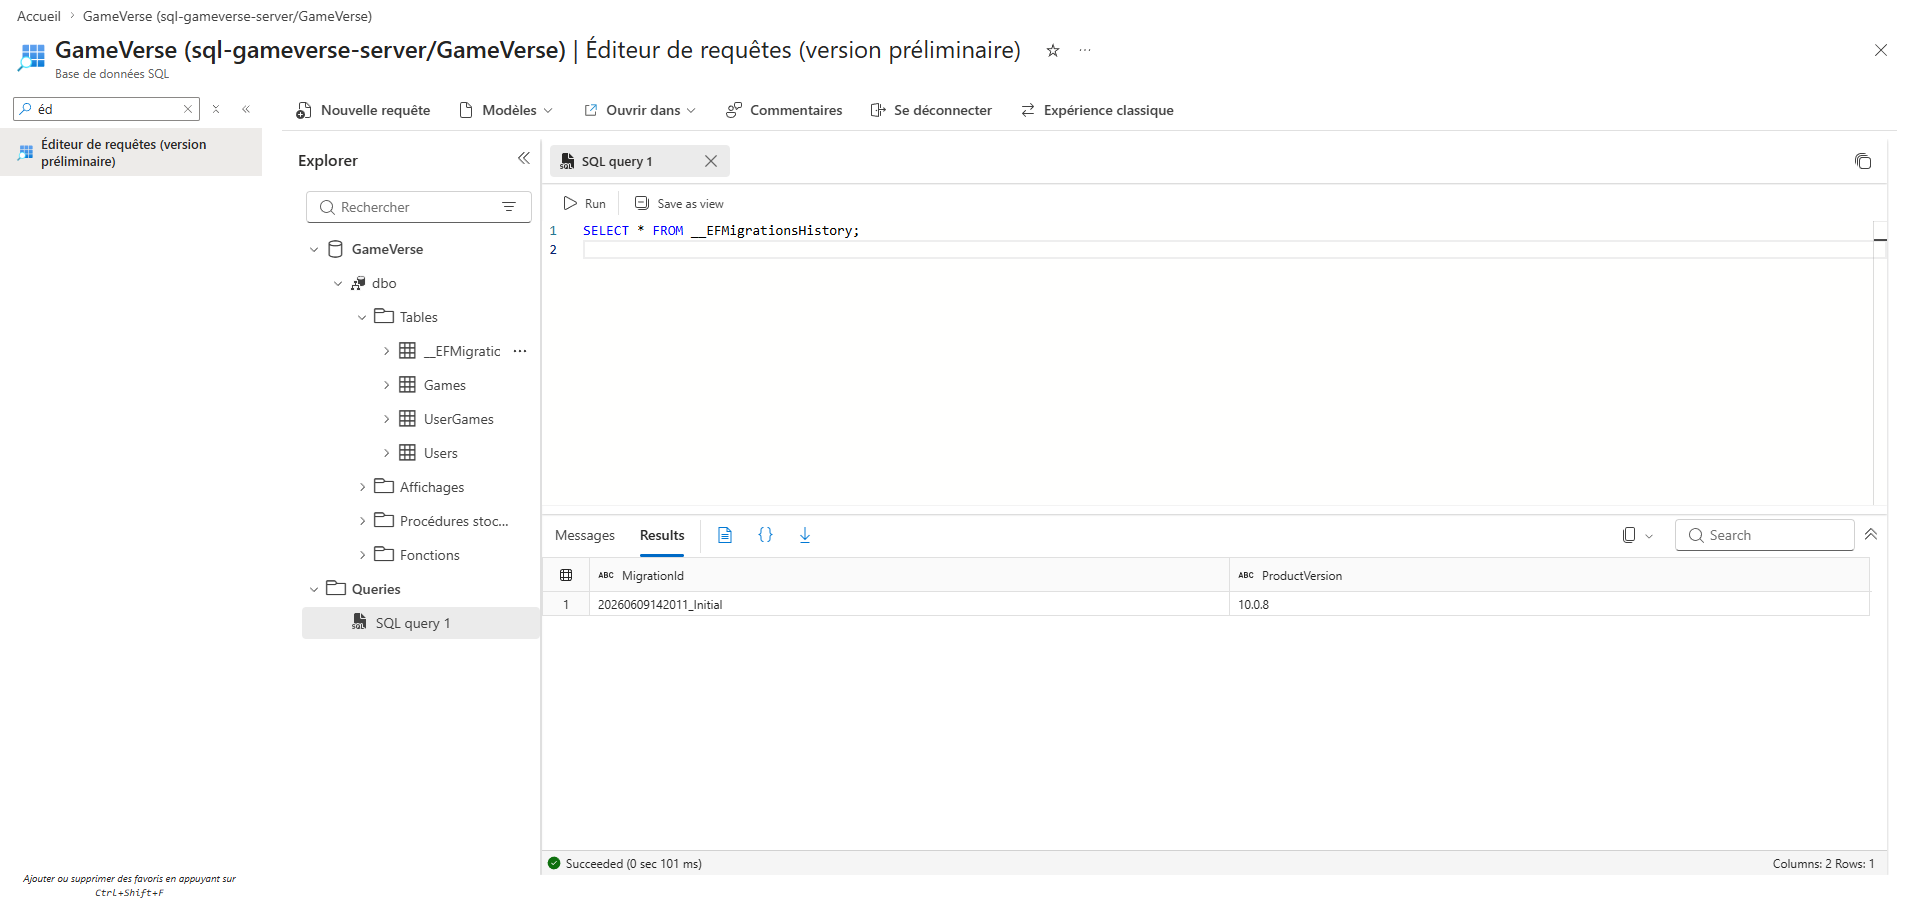
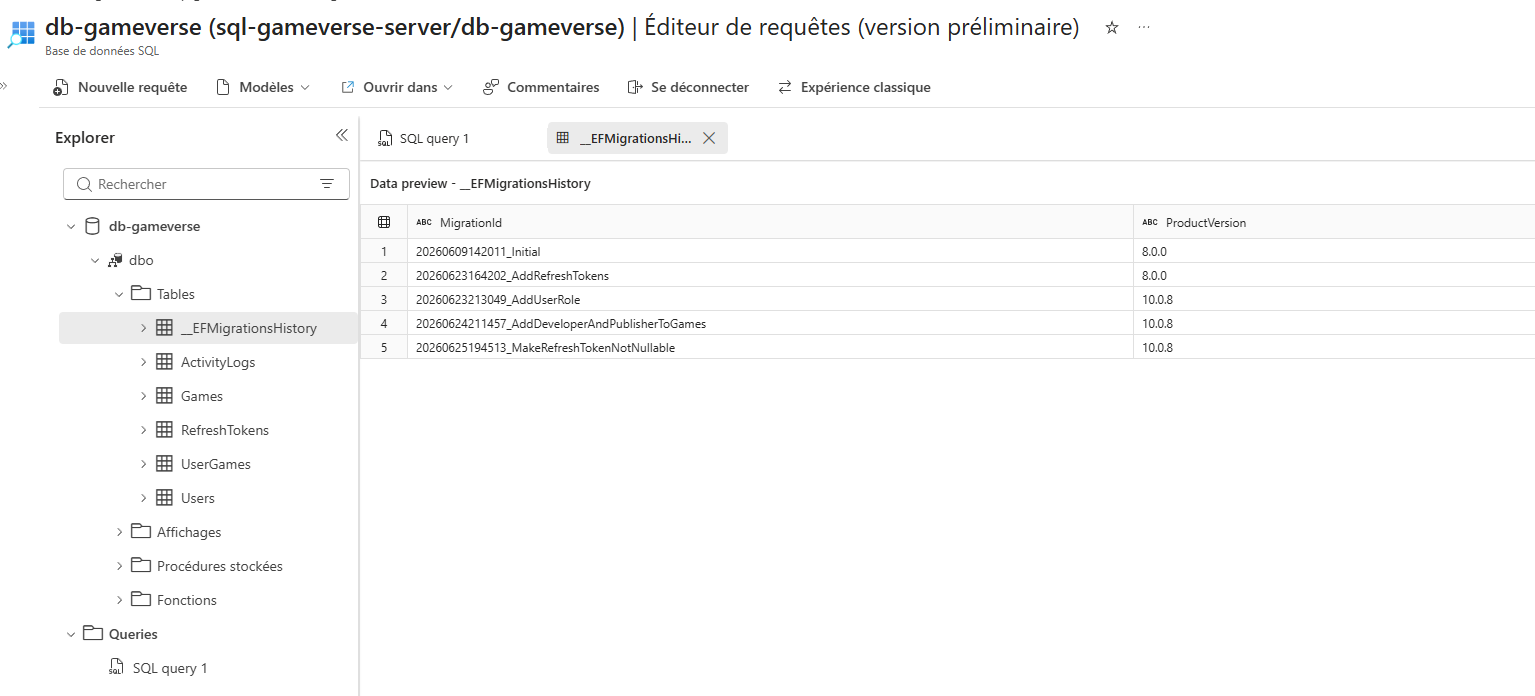
Refonte accueil + menu dynamique selon l’authentification
- Ajout de l’authentification Blazor dans App.razor et NavMenu.razor, avec affichage conditionnel du menu selon l’état de connexion (AuthorizeView)
- Menu de navigation dynamique : Register/Login pour invités, Profile/Library/Wishlist/Favorites/Logout pour utilisateurs connectés
- Refonte complète de Home.razor avec section de bienvenue, boutons d’action et présentation des fonctionnalités
- Ajout du fichier Home.razor.css pour le style de la page d’accueil
- Mise à jour du README : structure du projet, explications sur l’authentification JWT et la navigation
- Ajout et mise à jour d’images (Home.png, migration-azure.png) pour la documentation et l’interface

diff --git a/GameVerse.WEB/Pages/Home.razor.css b/GameVerse.WEB/Pages/Home.razor.css
@@ -1,0 +1,47 @@
+.home-container {
+    text-align: center;
+    padding: 3rem 1rem;
+}
+
+.hero {
+    margin-bottom: 3rem;
+}
+
+    .hero h1 {
+        font-size: 2.8rem;
+        margin-bottom: 1rem;
+    }
+
+    .hero p {
+        font-size: 1.2rem;
+        color: #555;
+        max-width: 600px;
+        margin: 0 auto;
+    }
+
+.hero-buttons {
+    margin-top: 2rem;
+}
+
+    .hero-buttons .btn {
+        margin: 0 0.5rem;
+        padding: 0.8rem 1.5rem;
+        font-size: 1rem;
+    }
+
+.features {
+    display: flex;
+    justify-content: center;
+    gap: 2rem;
+    flex-wrap: wrap;
+    margin-top: 3rem;
+}
+
+.feature {
+    max-width: 280px;
+    padding: 1.5rem;
+    background: #fff;
+    border-radius: 8px;
+    box-shadow: 0 0 12px rgba(0,0,0,0.1);
+    text-align: left;
+}

diff --git a/README.md b/README.md
@@ -234,3 +234,54 @@ app.UseScalar(options =>
 docker build -t gameverse-api .
 docker run -p 8080:80 gameverse-api
 ```
+
+## 🗂 Structure du projet Web
+
+```bash
+ 
+GameVerse.WEB/
+│
+├── Pages/
+│   ├── Home.razor
+│   ├── Login.razor
+│   ├── Register.razor
+│   ├── Profile.razor
+│   ├── Library.razor
+│   ├── Wishlist.razor
+│   ├── Favorites.razor
+│   └── NotAuthorized.razor
+│
+├── Layout/
+│   ├── MainLayout.razor
+│   └── NavMenu.razor
+│
+├── Services/
+│   ├── AuthState.cs
+│   ├── CustomAuthStateProvider.cs
+│   └── AuthService.cs
+│
+└── Program.cs
+
+```
+
+## 🔐 Authentification Web
+
+L’application GameVerse.WEB utilise une authentification basée sur **JWT** fournie par l’API GameVerse.
+
+Une fois connecté, l’utilisateur accède à son espace personnel :
+
+- Profil
+- Bibliothèque de jeux
+- Wishlist
+- Favoris
+
+La navigation s’adapte automatiquement à l’état de connexion :
+
+- **Non connecté** : Home, Register, Login  
+- **Connecté** : Home, Profil, Bibliothèque, Wishlist, Favoris, Logout  
+
+Les pages sensibles sont protégées via l’attribut Razor :
+
+```razor
+@attribute [Authorize]
+
